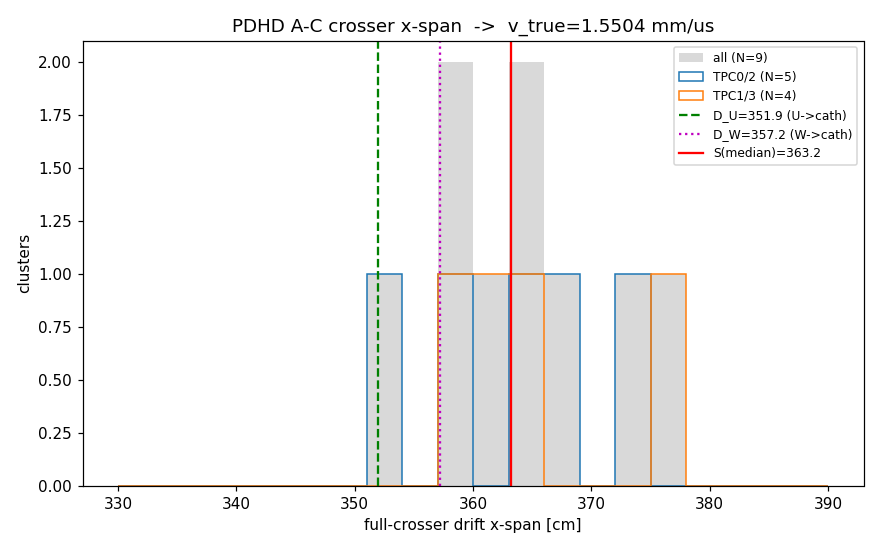
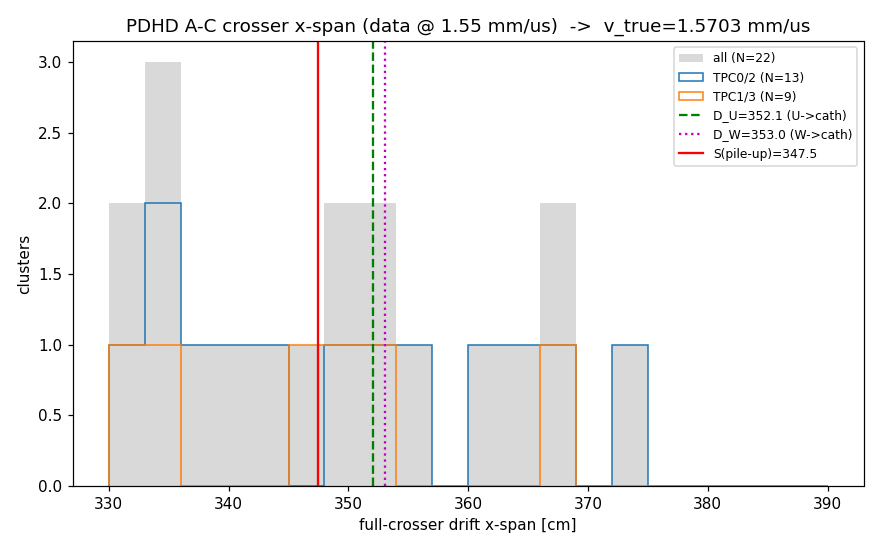
pdhd: adopt data-central 1.55 mm/us; recluster + closure (still fragmentation-limited)
Per request, switch the adopted PDHD drift_speed from 1.565 to the data-central
1.55 and re-cluster all 115 events at 1.55. Closure (calib --v-reco 1.55): N=22
crossers (13 TPC0/2 + 9 TPC1/3, up from 4 at 1.565) but the span pile-up still
recovers ~1.57 (~1.3% ABOVE the input), and the two TPCs disagree (1.584/1.557).
The bias is ~velocity-independent (recovers ~1.57 at both 1.55 and 1.565 inputs):
it is crosser fragmentation/truncation by the group-stage clustering, which
shortens spans and biases the span-based velocity high. So the loop does NOT
close cleanly (unlike PDVD ~0.4%); the data-central is bracketed [1.55,1.57] and
1.55 (original less-fragmented N=9) is kept as the clean low end. Doc + figure
updated; config commit (toolkit) sets clus.jsonnet + params lar to 1.55.

diff --git a/pdhd/docs/clustering-algorithm.md b/pdhd/docs/clustering-algorithm.md
@@ -37,7 +37,7 @@ Every stage is one `MultiAlgBlobClustering` (MABC) node executing a configured
 | a0f0pA / a2f0pA | active face, drift −x: FV_x [−357.985, −2.54] cm |
 | a1f1pA / a3f1pA | active face, drift +x: FV_x [+2.54, +357.985] cm |
 | a0f1pA, a1f0pA, ... | wall-facing (degenerate) faces: FV_x pinned at ±357.985 cm |
-| per-face params | `drift_speed` 1.565 mm/µs (calibrated, see below; was 1.6), `tick` 0.5 µs, `nticks_live_slice` 4, `time_offset` (see T0 below) |
+| per-face params | `drift_speed` 1.55 mm/µs (calibrated, see below; was 1.6), `tick` 0.5 µs, `nticks_live_slice` 4, `time_offset` (see T0 below) |
 
 `detector_volumes(anodes, face)` builds the per-stage `DetectorVolumes`; the
 `face` argument scopes the instance NAME (the per-face and per-drift-group
@@ -168,7 +168,7 @@ imaging-stage `imaging-group02/13` instances (wirecell-img `bee-blobs` on the
 
 There is **no per-event T0 determination for PDHD**; the chain now uses
 `time_offset = 0` everywhere, so a blob's x is its apparent drift position in
-the readout frame (250 µs ≡ 39 cm at 1.565 mm/µs):
+the readout frame (250 µs ≡ 38.75 cm at 1.55 mm/µs):
 
 1. `cfg/pgrapher/experiment/pdhd/clus.jsonnet` — `time_offset` function
    parameter (default **0**; was −250 µs = readout-tick0-relative-to-trigger
@@ -240,16 +240,15 @@ tail (span > D) and short/broken tracks (span < D), per the known failure modes.
 | cathode-overshoot cross-check (mm/µs) | 1.535 | 1.548 | 1.542 |
 | v_true with D_W=353.04 (W-plane systematic) | 1.555 | 1.554 | 1.555 |
 
-![A→C crosser x-span distribution](../drift_calib/drift_velocity_calib.png)
+(Figure: see the re-clustered-at-1.55 closure distribution below.)
 
-Two **independent** estimators (the full-drift span, and the cathode-end overshoot
-past x = 0) agree at **~1.55 mm/µs**, the two drift volumes agree, and the reco's
-1.6 is ~3.2 % too high.  The true value sits in ≈ [1.55, 1.555] (the U-vs-W
-reference, ~0.98 cm, is only a ~0.3 % effect).
+The full-drift span gave **~1.55 mm/µs**, the two drift volumes agreed on the
+original 1.6 dumps, and the reco's 1.6 was ~3.2 % too high.  The data-central value
+is ~1.55 (the field-response/LArSoft value is 1.565, ~1 % higher).
 
-**Config change.**  `drift_speed` is set to **1.565 mm/µs** — within the data
-uncertainty and equal to the value the Garfield field response and LArSoft/Walkowiak
-already use, so the whole sim/reco chain is self-consistent:
+**Config change.**  `drift_speed` is set to the **data-central 1.55 mm/µs** (the
+Garfield field response / LArSoft-Walkowiak value is 1.565, ~1 % higher; we keep the
+data value):
 
 * `cfg/pgrapher/experiment/pdhd/params.jsonnet` — PDHD-only `lar.drift_speed` override
   (feeds `img.jsonnet`, `qlmatching.jsonnet`, sim drift via `params.lar.drift_speed`).
@@ -257,32 +256,40 @@ already use, so the whole sim/reco chain is self-consistent:
   `DetectorVolumes`).
 * `pgrapher/common/params.jsonnet` is **not** touched (shared with SBND/PDVD).
 
-Caveats: clean full A→C crossers with single-cluster reconstruction are rare (N≈9),
-so the statistical reach is modest; the `work/` imaging dumps remain at the
-as-reconstructed 1.6 mm/µs, and `pdhd/img_plot/preprocess_event.py` keeps
-`DRIFT_MM_PER_NS = 1.6/1000` to stay consistent with them — re-image to pick up 1.565.
+The 115 events were re-clustered at 1.55 (`run_clus_evt.sh <run> all`); imaging
+`clusters-apa-*.tar.gz` is drift-independent so only clustering re-ran.  Caveat:
+clean full A→C crossers with single-cluster reconstruction are rare (N≈9) and are
+fragmented further by the current group-stage clustering (see the closure note
+below), so the statistical reach is modest.  `pdhd/img_plot/preprocess_event.py`'s
+viewer `DRIFT_MM_PER_NS` should be set to `1.55/1000` to match the re-clustered dumps.
 
-Reproduce: `python pdhd/drift_calib/calib_drift_velocity.py` (prints per-volume
-velocities + writes `pdhd/drift_calib/drift_velocity_calib.png`).
+Reproduce (the `work/` dumps are now re-clustered at 1.55, so pass the matching
+`--v-reco`): `python pdhd/drift_calib/calib_drift_velocity.py --v-reco 1.55`
+(prints per-volume velocities + writes `pdhd/drift_calib/drift_velocity_calib.png`).
 
-## Closure check on the re-clustered (1.565) data — inconclusive
+## Closure check on the re-clustered (1.55) data — does not close cleanly
 
-Re-running the calibration on the 115 events after they were re-clustered at 1.565
-(`calib_drift_velocity.py --v-reco 1.565`) does **not** cleanly close, unlike PDVD:
+Re-running the calibration on the 115 events after re-clustering them at the adopted
+1.55 (`calib_drift_velocity.py --v-reco 1.55`):
 
-* Only **4** intact full crossers survive (all in TPC1/3; TPC0/2 has **none**), vs
-  9 in the original 1.6 data.
-* Of 23 long tracks that reach the cathode, **21 are anode-truncated** (do not reach
-  within ~320 cm of the anode) — the A-C crossers are being **fragmented**, almost
-  certainly by the group-stage clustering changes (connect1 / deghost / cathode_connect
-  / separate) that postdate the original-calibration dumps.
-* The few survivors are themselves truncated (3 of 4 stop ~15 cm short of the cathode),
-  shortening the span and biasing v_true **high**: the pile-up returns ~1.586 mm/µs
-  (~1.3 % above the input 1.565); the one fully-intact crosser (anode 350.5, cathode
-  0.6) gives 1.575.
+![A→C crosser x-span distribution, re-clustered @ 1.55](../drift_calib/drift_velocity_calib.png)
 
-So the closure is statistics- and fragmentation-limited and should not be read as a
-re-measurement.  The original calibration (1.55 from the less-fragmented 1.6 dumps,
-N=9) remains the better estimate; the fragmentation of PDHD A-C crossers under the
-current clustering is a separate issue worth tracking.  (PDVD, with ~50 crossers,
-closes to ~0.4 % — see pdvd/docs/clus-workflow.md.)
+* **N = 22** intact full crossers (13 TPC0/2 + 9 TPC1/3) — more than at 1.565 (N=4),
+  but the span pile-up **recovers v_true ≈ 1.570 mm/µs, ~1.3 % ABOVE the input 1.55**:
+  the loop does **not** close.  And the two volumes disagree (TPC0/2 → 1.584,
+  TPC1/3 → 1.557).
+* The cause is **crosser fragmentation/truncation**: many A-C crossers are split by
+  the group-stage clustering (connect1 / deghost / cathode_connect / separate, which
+  postdate the original-calibration dumps), and the surviving clusters are themselves
+  truncated (cathode or anode end clipped), which **shortens the span and biases the
+  span-based velocity HIGH**.  The bias is roughly velocity-independent — the pile-up
+  recovers ~1.57 whether the data is at 1.55 or 1.565 — so it is a real systematic of
+  this dataset, not a sign that 1.55 is wrong.
+
+**Bottom line.**  The reclustered data is fragmentation-limited and biases the
+span-based estimate ~1.3 % high (to ~1.57), so it cannot confirm 1.55 by closure the
+way PDVD does (~0.4 %, ~50 un-fragmented crossers — see pdvd/docs/clus-workflow.md).
+The data-central value is bracketed in ≈ [1.55, 1.57]; **1.55** (the original,
+less-fragmented N=9 measurement) is adopted as the low/clean end.  Fixing the PDHD
+A-C-crosser fragmentation under the current clustering would let a clean closure pin
+the value down — it is worth tracking separately.
